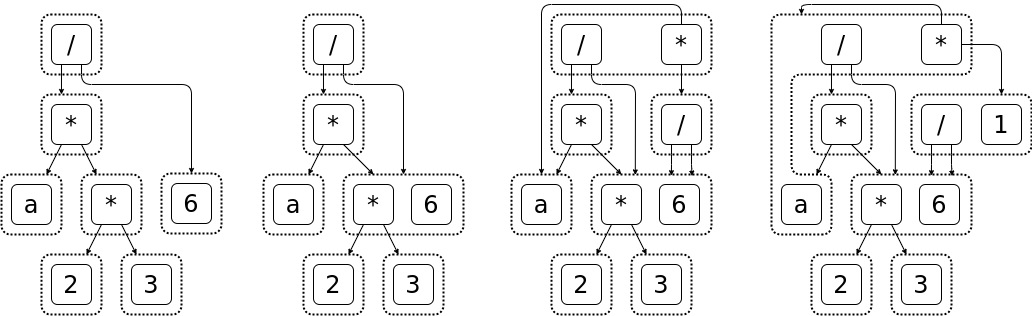
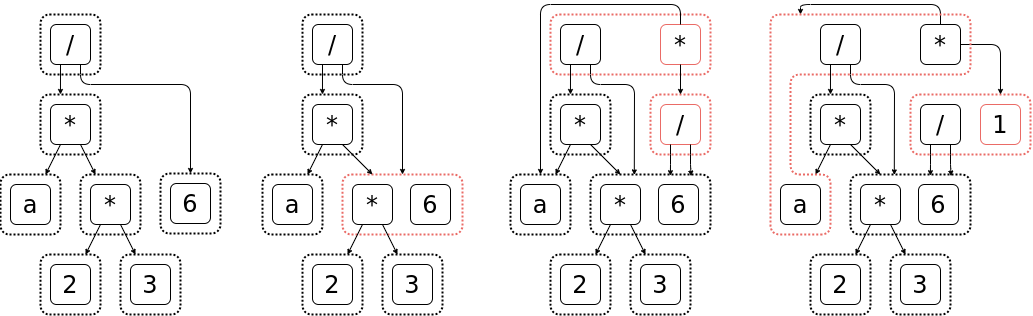
paper fixes

diff --git a/paper/paper.md b/paper/paper.md
@@ -52,7 +52,7 @@ Provided with *equality saturation*, users can efficiently derive (and analyze) 
 <!-- The other back-end for Metatheory.jl, the core of our contribution, is designed to not require the user to reason about rewriting order by employing equality saturation on e-graphs. This backend allows programmers to define equational theories in pure Julia without worrying about rule ordering and structuring, by relying on state-of-the-art techniques for equality saturation over *e-graphs* adapted from the `egg` Rust library [@egg].
 Provided with a theory of equational rewriting rules, *e-graphs* compactly represent many equivalent programs. Saturation iteratively executes an e-graph specific pattern matcher to efficiently compute (and analyze) all possible equivalent expressions contained in the e-graph congruence closure. This latter back-end is suitable for partial evaluators, symbolic mathematics, static analysis, theorem proving and superoptimizers. -->
 
-![These four e-graphs represent the process of equality saturation, adding many equivalent ways to write $a \times (2 * 3) / 6$ after each iteration. \label{fig:egraph}](egraphs.png)
+![These four e-graphs represent the process of equality saturation, adding many equivalent ways to write $a \times (2 * 3) / 6$ after each iteration. Dashed boxes represent equivalence classes (e-classes) and the other boxes represent e-nodes. The arrow from an e-node to an e-class means that the pointed e-class is a children of the e-node where the arrow starts. \label{fig:egraph}](egraphs.png)
 
 
 The original `egg` library [@egg] is
